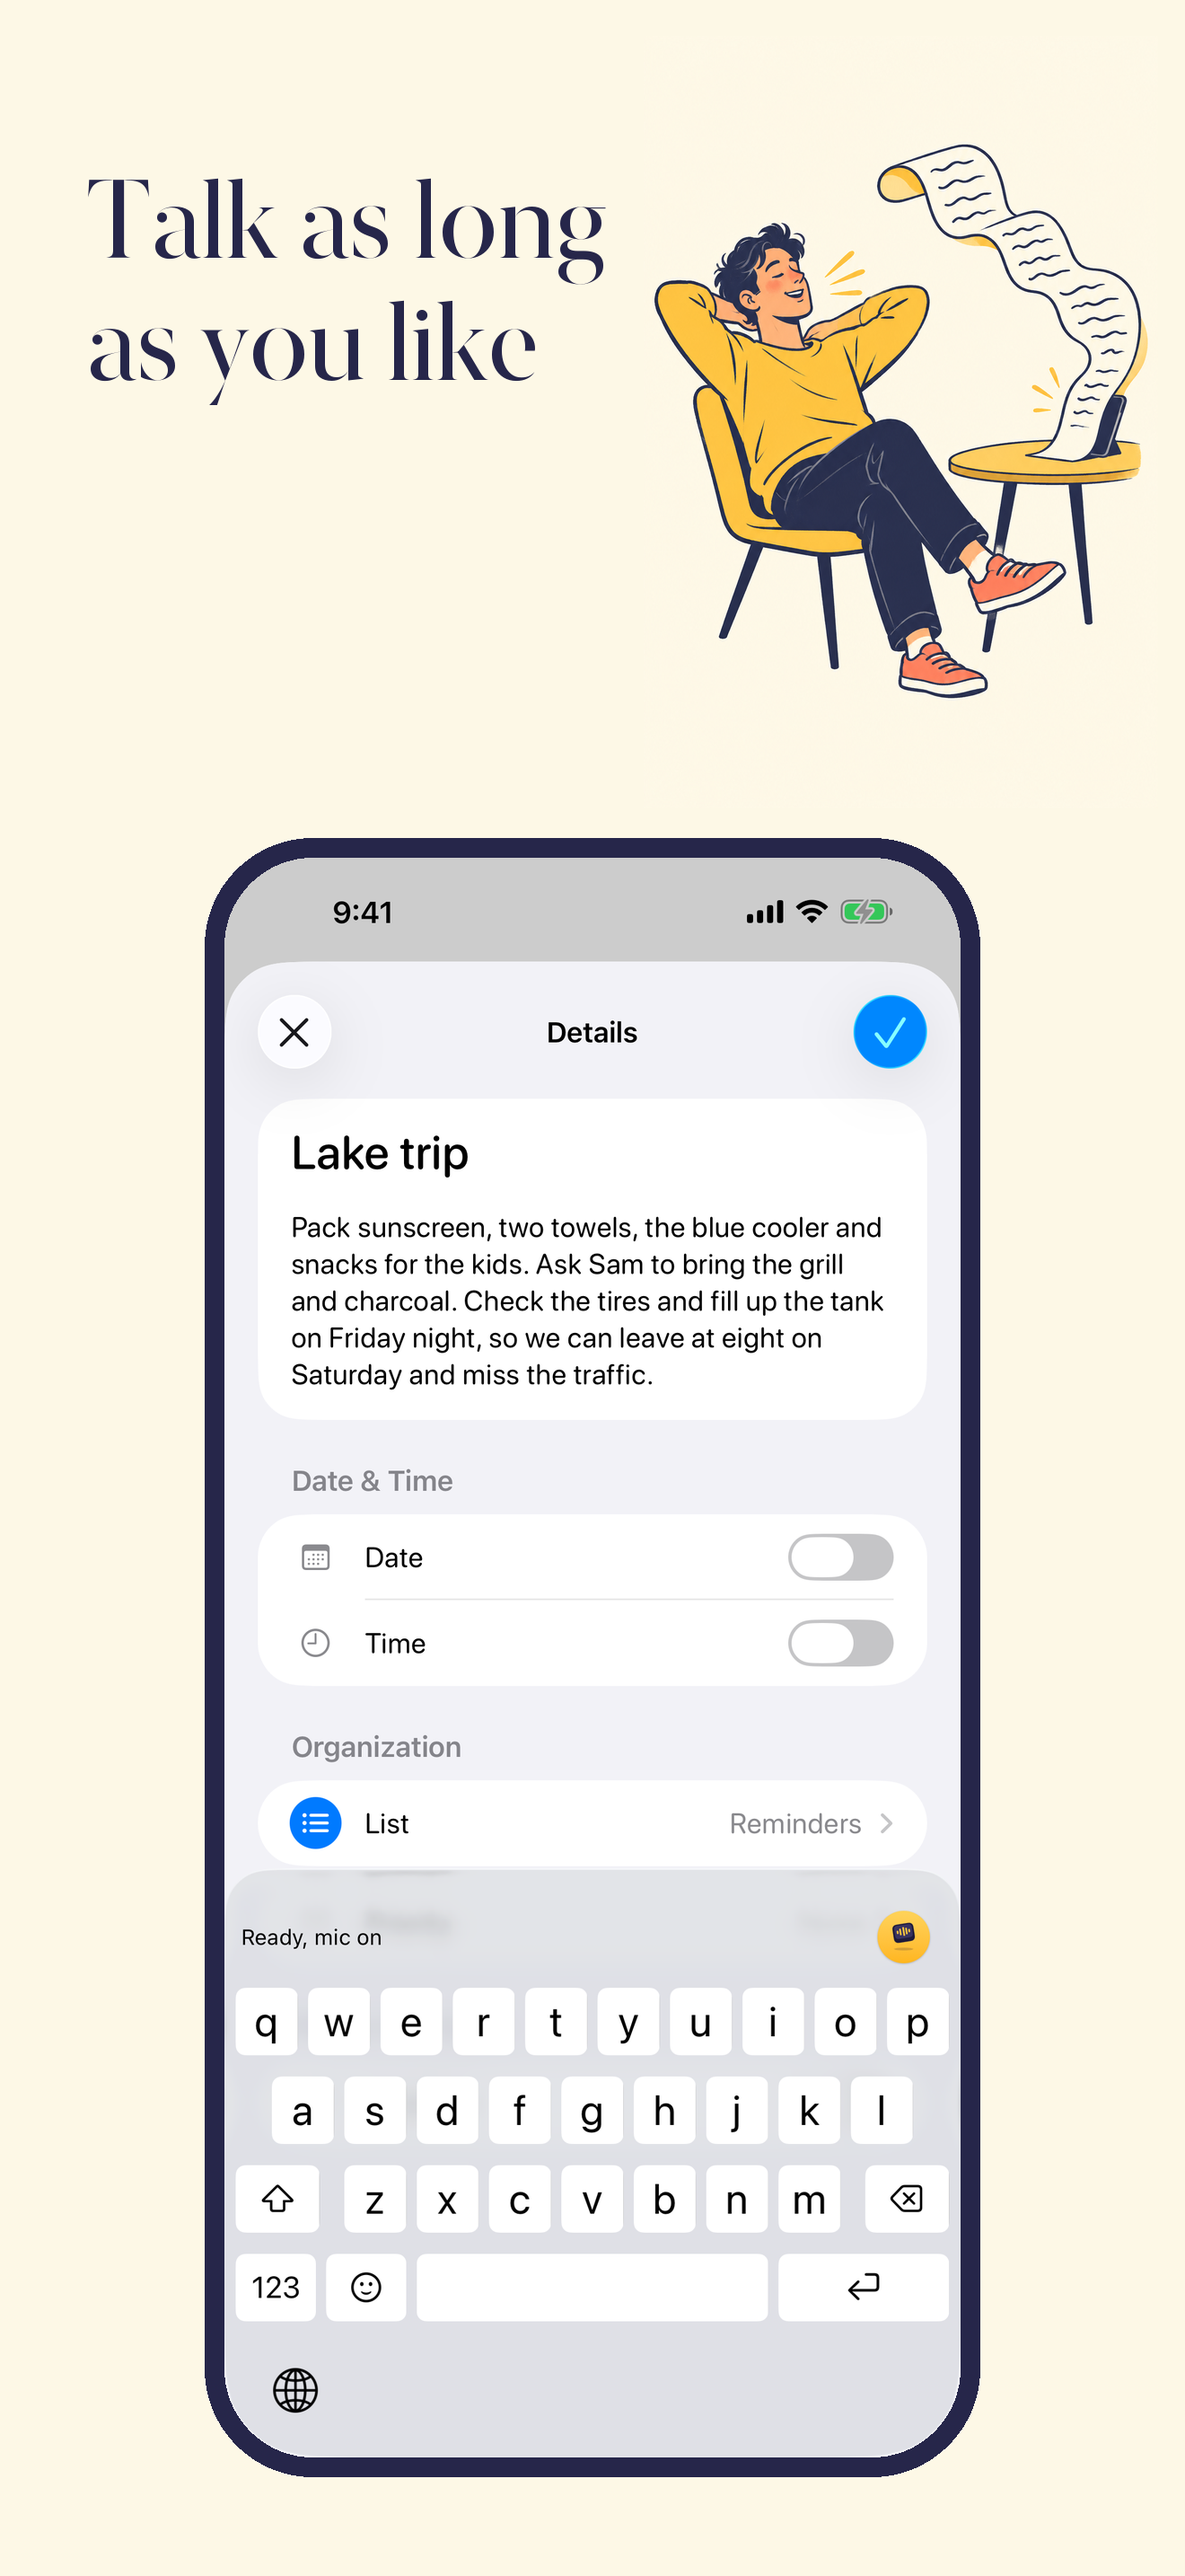
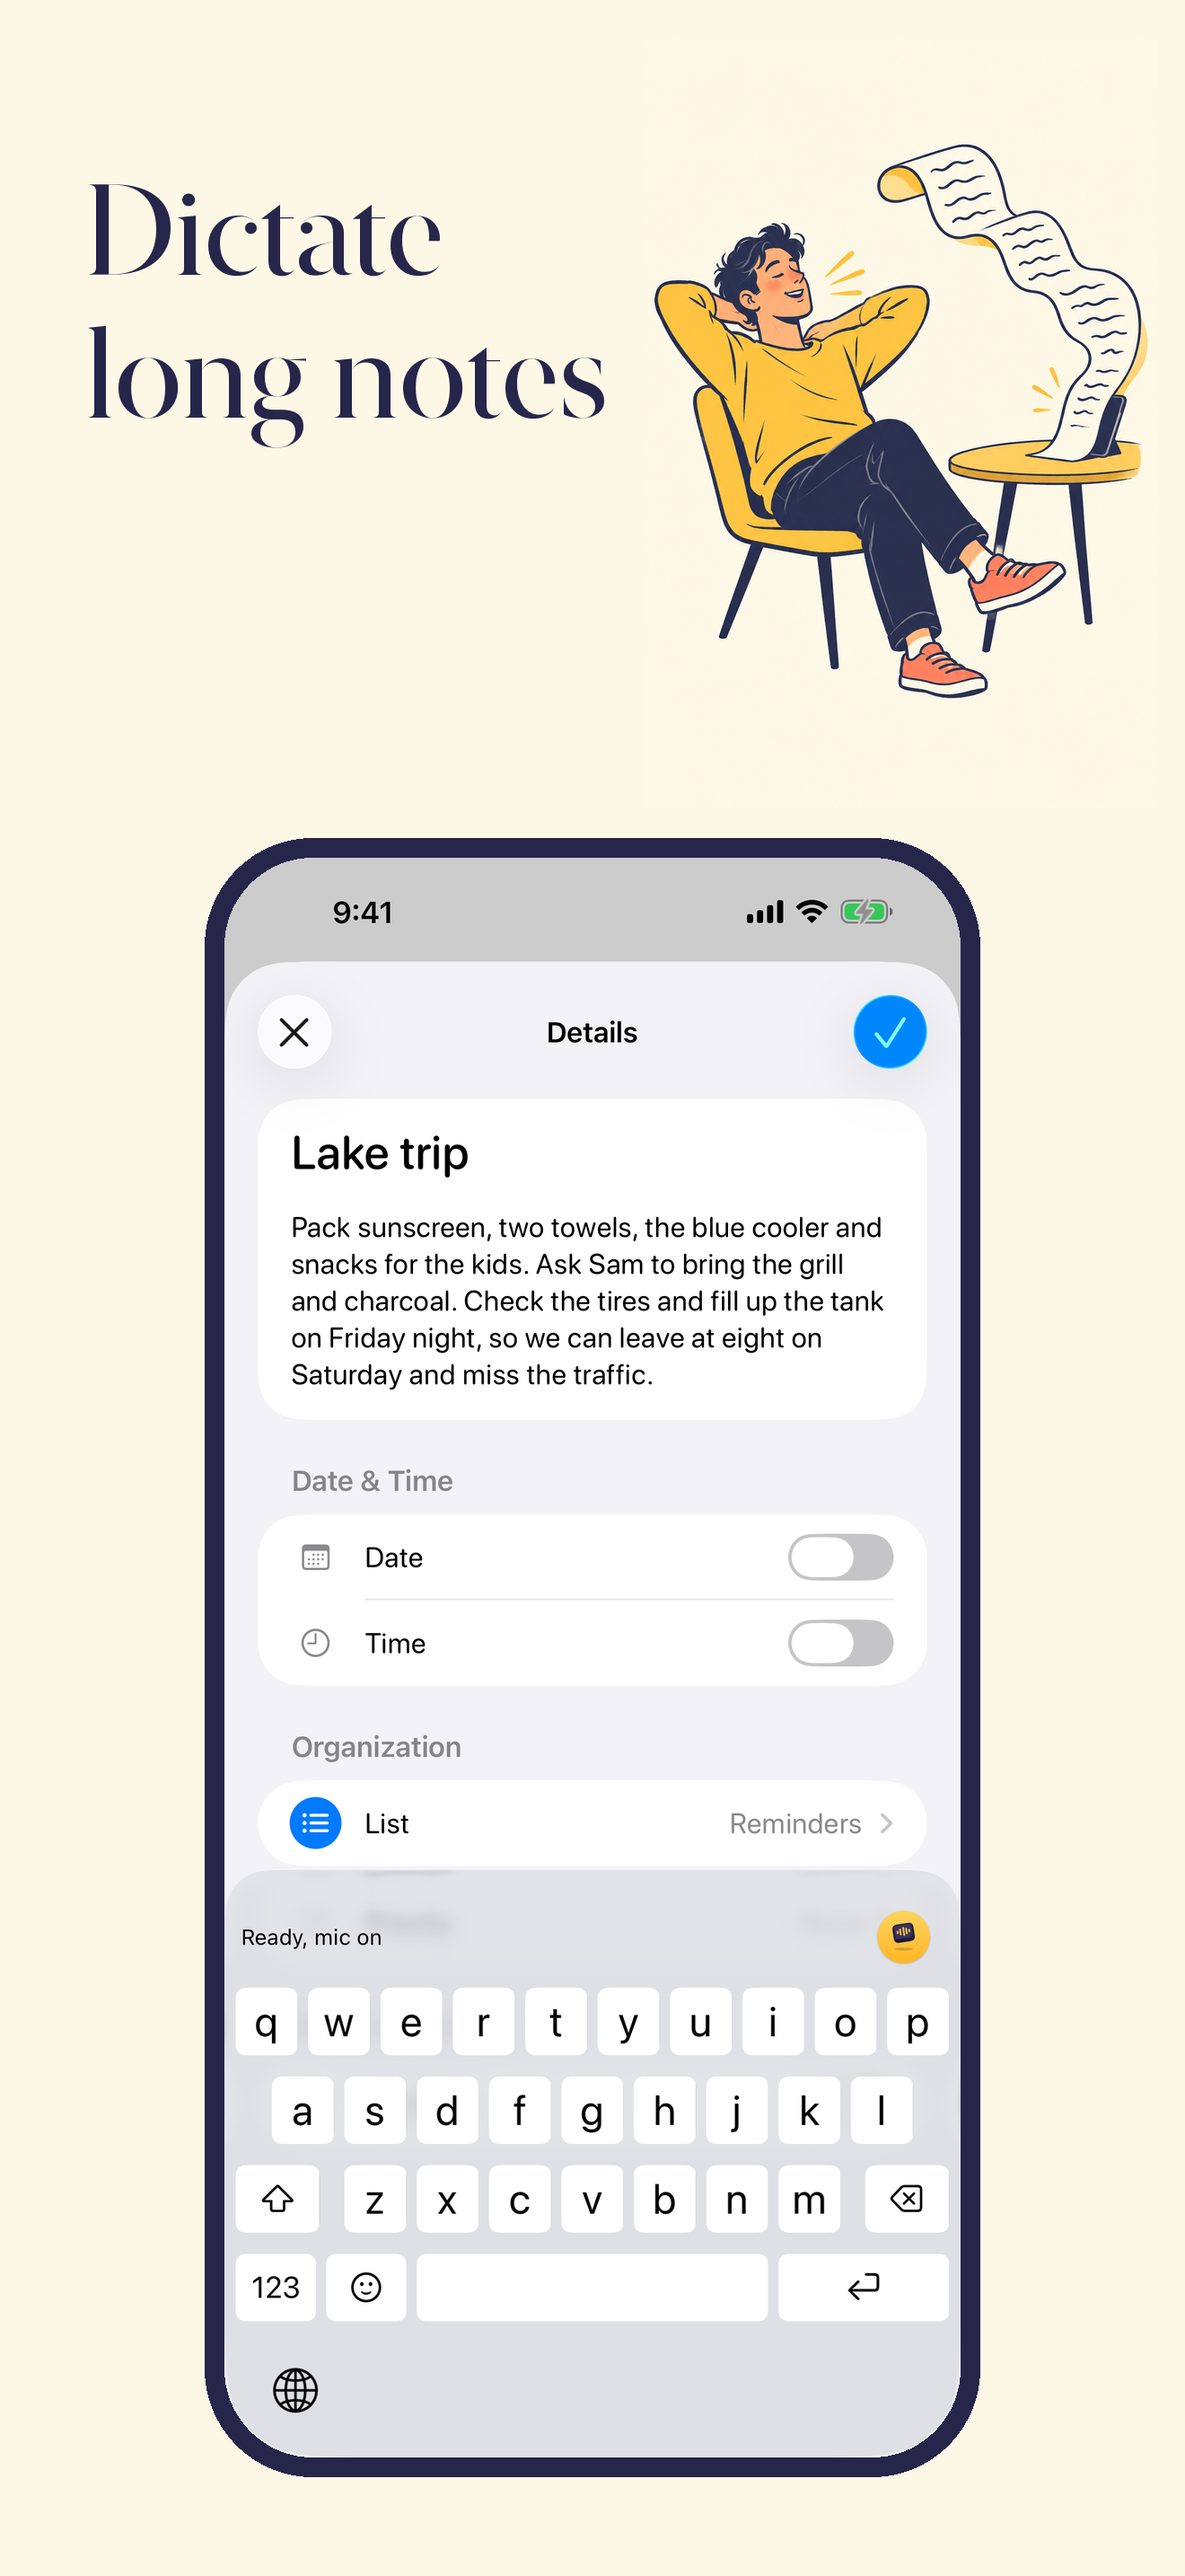
iOS store: plainer claims after the final review: screenshots say Dictate long notes and Your takes, the listing says the keyboard makes no network requests, and the privacy page says ThumbFree never uploads recordings or transcripts

Changed region(s): [[0.0621, 0.0621, 0.497, 0.1862]]

diff --git a/ios/tools/store-frames.py b/ios/tools/store-frames.py
@@ -21,12 +21,12 @@ SANS = "/System/Library/Fonts/SFNS.ttf"
 FRAMES = [  # headline lines, raw screen (also the output's name), illustration in ART_DIR
     (["Talk.", "It types."], "1-talk.png", "1.png"),
     (["Your words,", "right where", "you type"], "2-typed.png", "2.png"),
-    (["Talk as long", "as you like"], "3-note.png", "3.png"),
+    (["Dictate", "long notes"], "3-note.png", "3.png"),
     (["Works offline.", "Your voice is", "never uploaded."], "4-private.png", "4.png"),
     (["Speak in", "25 languages"], "5-languages.png", "languages.png"),
     (["A full", "keyboard, too"], "6-keyboard.png", "5.png"),
     (["Names spelled", "your way"], "7-dictionary.png", "names.png"),
-    (["Every take,", "saved on", "your iPhone"], "8-history.png", "6.png"),
+    (["Your takes,", "saved on", "your iPhone"], "8-history.png", "6.png"),
 ]
 ART_BOX = (600, 860)          # the illustration's box, top right
 TEXT_LEFT, TEXT_TOP = 96, 170

diff --git a/docs/brand/ios/listing.md b/docs/brand/ios/listing.md
@@ -58,13 +58,13 @@ YOUR DICTIONARY
 Add the names and terms you say often. ThumbFree fixes close misspellings of them in your dictation, and autocorrect leaves them alone. Ums and uhs are left out.
 
 HISTORY
-Every take is kept on your iPhone and left out of backups. Search it, copy it or transcribe it again. Choose how long takes are kept, or clear them all.
+Your recordings and transcripts are kept on your iPhone and left out of backups. Search it, copy it or transcribe it again. Choose how long takes are kept, or clear them all.
 
 LANGUAGES
-English by default. An optional Multilingual model understands 25 European languages.
+Choose English, or a Multilingual model that understands 25 European languages.
 
 WHY FULL ACCESS
-iOS asks for Full Access before a keyboard can work with its own app. ThumbFree's keyboard uses it to start the mic in ThumbFree, bring your words back and share your Dictionary. The keyboard never goes online, and nothing it reads leaves your iPhone. Without Full Access it still types, with suggestions and emoji.
+iOS asks for Full Access before a keyboard can work with its own app. ThumbFree's keyboard uses it to start the mic in ThumbFree, bring your words back and share your Dictionary. The keyboard makes no network requests. Without Full Access it still types, with suggestions and emoji.
 
 GOOD TO KNOW
 • Needs iOS 26 or later on iPhone.
@@ -72,7 +72,7 @@ GOOD TO KNOW
 • The open speech models and word list are credited in Settings > About.
 <!-- /description -->
 
-[2,605]
+[2,588]
 
 ## Keywords (100 at most)
 
@@ -96,12 +96,12 @@ Eight, at Apple's 6.9 inch size (1320 x 2868), in `screenshots/`: the maintainer
 
 1. Talk. It types.
 2. Your words, right where you type
-3. Talk as long as you like
+3. Dictate long notes
 4. Works offline. Your voice is never uploaded.
 5. Speak in 25 languages
 6. A full keyboard, too
 7. Names spelled your way
-8. Every take, saved on your iPhone
+8. Your takes, saved on your iPhone
 
 ## URLs
 
@@ -130,9 +130,9 @@ In App Store Connect, App Privacy: "Do you or your third-party partners collect 
 
 Why that is the right answer:
 
-- Speech is turned into text on the iPhone. Recordings, text, the Dictionary and settings are stored only on the iPhone and never sent to you or anyone else.
+- Speech is turned into text on the iPhone. Recordings and transcripts stay on the iPhone and out of backups; the Dictionary and settings are in the iPhone's own backups, like any app's settings. None of it is sent to you or anyone else.
 - There are no accounts and no analytics, crash reporting, advertising or tracking code, and no third-party code at all that talks to a server.
-- The one network use is downloading the speech model files, which are public, from Hugging Face at a pinned revision. The request is an ordinary HTTPS download with no identifier and nothing about the user. Hugging Face sees the IP address, as any web server does; the app neither receives nor uses it.
+- The one network use is downloading the speech model files, which are public, from Hugging Face at a pinned revision. The request is an ordinary HTTPS download with no account, no identifier made by ThumbFree and no dictation content. Hugging Face sees the IP address, as any web server does; the app neither receives nor uses it.
 - The privacy manifests agree: `NSPrivacyTracking` is false, with no tracking domains and no collected data types.
 
 Export compliance: the app's Info.plist says `ITSAppUsesNonExemptEncryption` NO (it uses only the HTTPS that iOS provides), so App Store Connect does not ask.

diff --git a/ios/docs/privacy.md b/ios/docs/privacy.md
@@ -6,7 +6,7 @@ ThumbFree turns your speech into text on your iPhone. It is built so that your v
 
 ## The short version
 
-- Your audio and your text never leave your iPhone.
+- ThumbFree never uploads your recordings or transcripts.
 - ThumbFree has no accounts, no analytics, no ads and no tracking.
 - It uses the internet for one thing only: downloading its speech models from Hugging Face.
 
